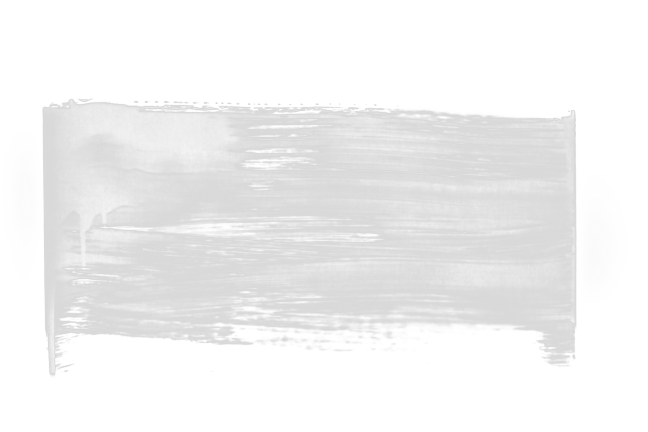
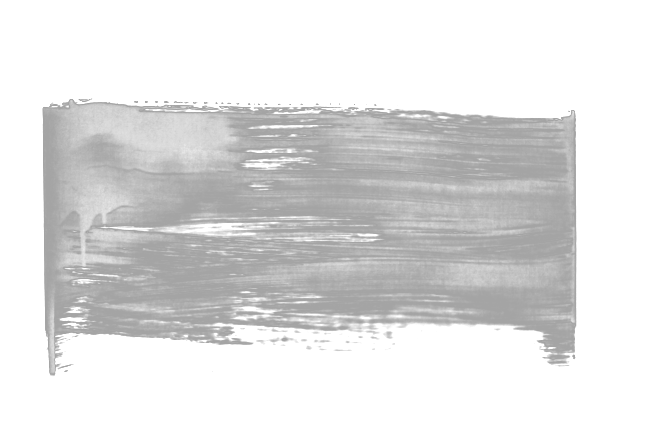
another paint streak; fix up old one

diff --git a/src/routes/Home.tsx b/src/routes/Home.tsx
@@ -6,6 +6,7 @@ import { useState } from 'react';
 import Wave from 'react-wavify';
 
 import paintStreak from '../assets/images/paint-streak.png'
+import paintStreak2 from '../assets/images/paint-streak-2.png'
 
 function MakeWaves() {
   return <>
@@ -142,8 +143,9 @@ function Home() {
 
       <div style={{ height: '200px' }} />
 
+      <img src={paintStreak} className="paint-streak" style={{ bottom: -240, right: -150 }} />
+      <img src={paintStreak2} className="paint-streak" style={{ top: 0, left: -100 }} />
       <div style={{ position: 'absolute', width: '100%', height: '100%', top: 0, left: 0, zIndex: -500, overflow: 'hidden', pointerEvents: 'none' }}>
-        <img src={paintStreak} style={{ position: 'absolute', top: -25, right: -100, opacity: '40%' }} />
         {MakeWaves()}
       </div>
     </>

diff --git a/src/routes/home.css b/src/routes/home.css
@@ -110,3 +110,9 @@
 .tool-logo:hover > .corner-icon {
     opacity: 100%;
 }
+
+.paint-streak {
+    position: absolute;
+    opacity: 60%;
+    z-index: -50;
+}

diff --git a/src/components/Footer.css b/src/components/Footer.css
@@ -7,6 +7,8 @@ footer {
     display: flex;
     flex-direction: row;
     justify-content: space-evenly;
+
+    z-index: -100;
 }
 
 .footer-column {
